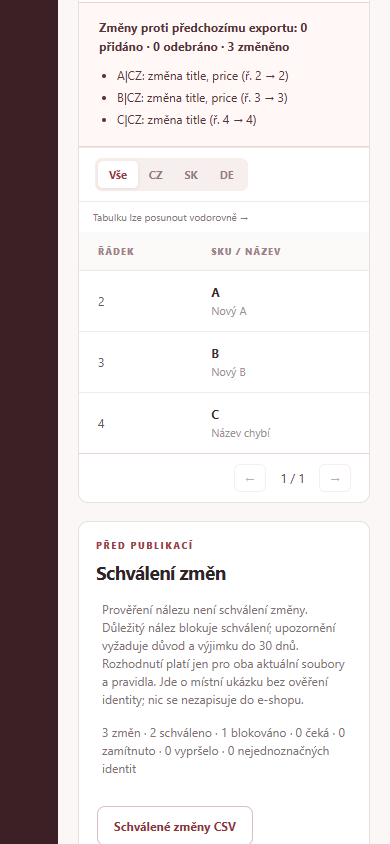
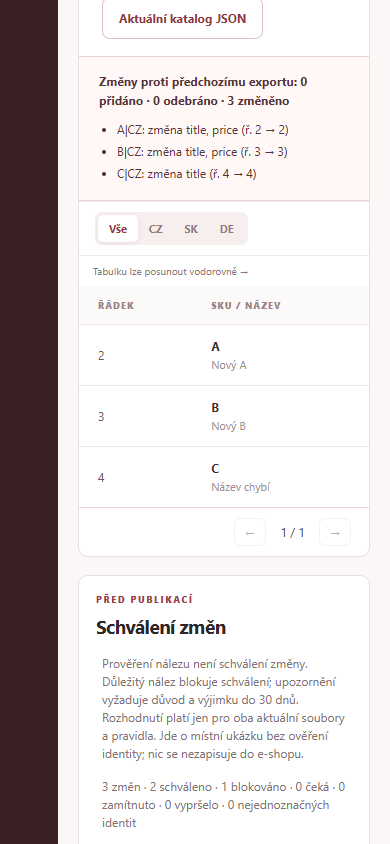
feat: versioned JSON catalogs and reviewed factual copy drafts

diff --git a/index.html b/index.html
@@ -6,14 +6,14 @@
   <meta name="description" content="Ukázková kontrola e-shopových dat a objednávek na fiktivních datech.">
   <meta name="theme-color" content="#3b2026">
   <title>Shop Ops Kit — kontrola e-shopových dat</title>
-  <link rel="stylesheet" href="/style.css">
-  <link rel="stylesheet" href="/red.css">
-  <script type="module" src="/app.mjs"></script>
+  <link rel="stylesheet" href="./style.css">
+  <link rel="stylesheet" href="./red.css">
+  <script type="module" src="./app.mjs"></script>
 </head>
 <body>
   <div class="shell">
     <aside class="rail">
-      <a class="brand" href="/" aria-label="Shop Ops Kit, úvod"><span class="brand-mark">S<span>·</span>O</span><span>SHOP OPS<br><strong>KIT</strong></span></a>
+      <a class="brand" href="./" aria-label="Shop Ops Kit, úvod"><span class="brand-mark">S<span>·</span>O</span><span>SHOP OPS<br><strong>KIT</strong></span></a>
       <div class="rail-caption">PRACOVNÍ PROSTOR</div>
       <nav aria-label="Nástroje">
         <button class="nav-item selected" data-view="catalog" aria-current="page"><span class="nav-icon">▦</span><span>Katalog a trhy</span></button>
@@ -34,8 +34,8 @@
         <section class="content-grid">
           <div class="main-column">
             <section class="panel" id="catalog-panel">
-              <div class="panel-head"><div><p class="panel-kicker">VSTUPNÍ DATA</p><h2>Produktový export</h2></div><div class="catalog-actions"><button id="previous-button" class="button outline upload-button" type="button">Předchozí CSV</button><input id="previous-file" type="file" accept=".csv,text/csv" hidden><button id="catalog-button" class="button outline upload-button" type="button">Aktuální CSV</button><input id="catalog-file" type="file" accept=".csv,text/csv" hidden></div></div>
-              <div id="catalog-diff" class="catalog-diff" role="status" aria-live="polite"></div>
+              <div class="panel-head"><div><p class="panel-kicker">VSTUPNÍ DATA</p><h2>Produktový export</h2></div><div class="catalog-actions"><button id="previous-button" class="button outline upload-button" type="button">Předchozí CSV / JSON</button><input id="previous-file" type="file" accept=".csv,.json,text/csv,application/json" hidden><button id="catalog-button" class="button outline upload-button" type="button">Aktuální CSV / JSON</button><input id="catalog-file" type="file" accept=".csv,.json,text/csv,application/json" hidden></div></div>
+              <p class="panel-description">JSON: verze 1, pole products se sedmi textovými poli katalogu. Zdroj je označen cestou products[index]. Stejná pravidla a schvalování jako CSV. <button id="catalog-json" class="button outline">Aktuální katalog JSON</button></p><div id="catalog-diff" class="catalog-diff" role="status" aria-live="polite"></div>
               <div class="filterbar"><div class="segmented" aria-label="Filtr trhů"><button type="button" class="active" data-market="ALL">Vše</button><button type="button" data-market="CZ">CZ</button><button type="button" data-market="SK">SK</button><button type="button" data-market="DE">DE</button></div><span id="catalog-count" class="count-label"></span></div>
               <div class="table-wrap"><table><thead><tr><th>ŘÁDEK</th><th>SKU / NÁZEV</th><th>TRH</th><th>CENA</th><th>SKLAD</th></tr></thead><tbody id="catalog-table"></tbody></table></div><div class="catalog-pager"><button id="catalog-prev" type="button" aria-label="Předchozí stránka katalogu">←</button><span id="catalog-page"></span><button id="catalog-next" type="button" aria-label="Další stránka katalogu">→</button></div>
             </section>
@@ -47,7 +47,7 @@
               <div id="publication-list"></div>
               <div class="catalog-pager"><button id="publication-prev" aria-label="Předchozí změny">←</button><span id="publication-page"></span><button id="publication-next" aria-label="Další změny">→</button></div>
             </section>
-            <section class="panel hidden" id="orders-panel">
+            <section class="panel draft-panel" id="draft-panel"></section><section class="panel hidden" id="orders-panel">
               <div class="panel-head"><div><p class="panel-kicker">POROVNÁNÍ SYSTÉMŮ</p><h2>Objednávky × zásilky</h2></div><span class="tag">DEMO REPLAY</span></div>
               <p class="panel-description">Každá událost zásilky se započítá jen jednou podle ID. Chybné mapování a rozdíly v množství zůstanou viditelné ke kontrole.</p>
               <div class="table-wrap"><table><thead><tr><th>OBJEDNÁVKA</th><th>STAV</th><th>PRODUKT</th><th>OBJEDNÁNO</th><th>ODESLÁNO*</th></tr></thead><tbody id="orders-table"></tbody></table></div>

diff --git a/red.css b/red.css
@@ -84,3 +84,5 @@ footer { border-color: #eadfdf; color: #a78f92; }
 .publication-change>label input{padding:7px;border:1px solid #d9c9c9;border-radius:4px;font:inherit}
 .publication-actions{padding:12px 0 0}.publication-toolbar .button{white-space:normal}
 .publication-actions button:disabled{opacity:.45;cursor:not-allowed}
+
+.draft-panel{padding:22px}.draft-panel select,.draft-panel input{font:inherit;max-width:100%;padding:9px;border:1px solid #c8bbc0;border-radius:4px;margin:7px}.draft-panel pre{white-space:pre-wrap;overflow-wrap:anywhere;background:#f8f5f5;padding:14px}.draft-panel label{display:block;margin:12px 0}.draft-panel button{margin:7px}.draft-panel h2{margin-bottom:12px}#draft-list p{padding:10px;border-left:3px solid #a63946}#draft-status{color:#773844}

diff --git a/docs/PROJECT.md b/docs/PROJECT.md
@@ -1,3 +1,15 @@
+# Etapa 10. 11. 2026 – SO-4/5
+
+**CSV i verzovaný JSON katalog; kontrolované návrhy textů.** Oba vstupy procházejí stejnými obchodními pravidly a schvalovací bránou. JSON má format shop-ops-catalog, version 1 a products s právě sedmi textovými poli: sku, market, title, price, currency, stock, url. Cenu a sklad uchovává jako text pro audit; neplatná hodnota se nepřevede na platnou. Do 2 MB / 10 000 položek. JSON zdroj se ukazuje cestou products[index]. Tlačítko „Aktuální katalog JSON“ stáhne aktuální normalizovaný katalog jako vzor; schválení nepřenáší.
+
+V panelu návrhů vyberte jednoznačné SKU/trh a krátkou nebo úplnou šablonu. Text pouze přebírá název, SKU, cenu/měnu a sklad; neprovádí překlad, nevymýšlí účinky ani specifikace a nevolá AI. Důležitý nález blokuje přípravu. Návrh ukáže zdrojová fakta a lokaci; k exportu vyžaduje potvrzení a důvod kontroly. SHA-256 propojuje text s fakty a variantou; změna katalogu, pravidel nebo reset návrhy zruší. Export JSON obsahuje pouze platné prověřené návrhy, nikoli publikaci do e-shopu. Název produktu může již ve vstupu obsahovat tvrzení; samotná šablona jeho pravdivost nezávisle neověřuje.
+
+20 Node testů prošlo. Dvě browser sady ověřily CSV schvalování i skutečný JSON import, lokaci, návrh, povinnou kontrolu, export, zneplatnění a zachování posledního platného katalogu po vadném importu. Desktop 1440 px a mobil 390 px bez přetečení/JS chyb; viz drafts.png a drafts-mobile.png. pnpm qa spustí obě sady; bez externích API. CI této nové etapy se ověřuje po publikaci.
+
+English: versioned JSON catalogs join CSV through the same audit/approval rules. JSON uses seven original string fields, bounded input and products[index] provenance. Source-only product copy templates (no AI, translation or invented claims) require human review and a reason, remain fingerprint-bound to the original facts, and export only reviewed current drafts. No live shop writes, authenticated approvals or imported orders. This is a local fictional-data portfolio workflow.
+
+## Historické etapy (aktuální stav výše)
+
 # Druhá etapa 9. 11. 2026 – SO-2a a SO-3a/b/c/d
 
 16 Node testů prošlo. Nové případy: důvod rozhodnutí, důležitý nález a nejednoznačné identity, výjimka/expirace/nejvýše 30 dnů UTC, otisk obou vstupů i pravidel, CSV jen schválených změn s ochranou textových buněk, zamítnutí, oddělení starých a nových řádků a přísné číselné vstupy. Prázdný sklad už neprochází jako nula.

diff --git a/docs/QA.md b/docs/QA.md
@@ -1,3 +1,15 @@
+# Etapa 10. 11. 2026 – SO-4/5
+
+**CSV i verzovaný JSON katalog; kontrolované návrhy textů.** Oba vstupy procházejí stejnými obchodními pravidly a schvalovací bránou. JSON má format shop-ops-catalog, version 1 a products s právě sedmi textovými poli: sku, market, title, price, currency, stock, url. Cenu a sklad uchovává jako text pro audit; neplatná hodnota se nepřevede na platnou. Do 2 MB / 10 000 položek. JSON zdroj se ukazuje cestou products[index]. Tlačítko „Aktuální katalog JSON“ stáhne aktuální normalizovaný katalog jako vzor; schválení nepřenáší.
+
+V panelu návrhů vyberte jednoznačné SKU/trh a krátkou nebo úplnou šablonu. Text pouze přebírá název, SKU, cenu/měnu a sklad; neprovádí překlad, nevymýšlí účinky ani specifikace a nevolá AI. Důležitý nález blokuje přípravu. Návrh ukáže zdrojová fakta a lokaci; k exportu vyžaduje potvrzení a důvod kontroly. SHA-256 propojuje text s fakty a variantou; změna katalogu, pravidel nebo reset návrhy zruší. Export JSON obsahuje pouze platné prověřené návrhy, nikoli publikaci do e-shopu. Název produktu může již ve vstupu obsahovat tvrzení; samotná šablona jeho pravdivost nezávisle neověřuje.
+
+20 Node testů prošlo. Dvě browser sady ověřily CSV schvalování i skutečný JSON import, lokaci, návrh, povinnou kontrolu, export, zneplatnění a zachování posledního platného katalogu po vadném importu. Desktop 1440 px a mobil 390 px bez přetečení/JS chyb; viz drafts.png a drafts-mobile.png. pnpm qa spustí obě sady; bez externích API. CI této nové etapy se ověřuje po publikaci.
+
+English: versioned JSON catalogs join CSV through the same audit/approval rules. JSON uses seven original string fields, bounded input and products[index] provenance. Source-only product copy templates (no AI, translation or invented claims) require human review and a reason, remain fingerprint-bound to the original facts, and export only reviewed current drafts. No live shop writes, authenticated approvals or imported orders. This is a local fictional-data portfolio workflow.
+
+## Historické etapy (aktuální stav výše)
+
 ## Ověřený vzdálený běh
 
 GitHub Actions úspěšně ověřily kód `fa77e1c`: [výsledek kontroly](https://github.com/OmegaCatt/shop-ops-kit/actions/runs/42686828209). Artefakt `shop-ops-workflow-preview` byl skutečně nahrán.

diff --git a/README.md b/README.md
@@ -1,3 +1,15 @@
+# Etapa 10. 11. 2026 – SO-4/5
+
+**CSV i verzovaný JSON katalog; kontrolované návrhy textů.** Oba vstupy procházejí stejnými obchodními pravidly a schvalovací bránou. JSON má format shop-ops-catalog, version 1 a products s právě sedmi textovými poli: sku, market, title, price, currency, stock, url. Cenu a sklad uchovává jako text pro audit; neplatná hodnota se nepřevede na platnou. Do 2 MB / 10 000 položek. JSON zdroj se ukazuje cestou products[index]. Tlačítko „Aktuální katalog JSON“ stáhne aktuální normalizovaný katalog jako vzor; schválení nepřenáší.
+
+V panelu návrhů vyberte jednoznačné SKU/trh a krátkou nebo úplnou šablonu. Text pouze přebírá název, SKU, cenu/měnu a sklad; neprovádí překlad, nevymýšlí účinky ani specifikace a nevolá AI. Důležitý nález blokuje přípravu. Návrh ukáže zdrojová fakta a lokaci; k exportu vyžaduje potvrzení a důvod kontroly. SHA-256 propojuje text s fakty a variantou; změna katalogu, pravidel nebo reset návrhy zruší. Export JSON obsahuje pouze platné prověřené návrhy, nikoli publikaci do e-shopu. Název produktu může již ve vstupu obsahovat tvrzení; samotná šablona jeho pravdivost nezávisle neověřuje.
+
+20 Node testů prošlo. Dvě browser sady ověřily CSV schvalování i skutečný JSON import, lokaci, návrh, povinnou kontrolu, export, zneplatnění a zachování posledního platného katalogu po vadném importu. Desktop 1440 px a mobil 390 px bez přetečení/JS chyb; viz drafts.png a drafts-mobile.png. pnpm qa spustí obě sady; bez externích API. CI této nové etapy se ověřuje po publikaci.
+
+English: versioned JSON catalogs join CSV through the same audit/approval rules. JSON uses seven original string fields, bounded input and products[index] provenance. Source-only product copy templates (no AI, translation or invented claims) require human review and a reason, remain fingerprint-bound to the original facts, and export only reviewed current drafts. No live shop writes, authenticated approvals or imported orders. This is a local fictional-data portfolio workflow.
+
+## Historické etapy (aktuální stav výše)
+
 # Shop Ops Kit
 
 ## Druhá etapa 9. 11. 2026: schválení konkrétních změn

diff --git a/AGENTS.md b/AGENTS.md
@@ -1,0 +1,9 @@
+# Shop Ops Kit
+
+Read the root portfolio plan and docs/PROJECT.md, docs/QA.md. Keep fictional examples, Czech-first docs, no credentials or live shop writes.
+
+CSV and versioned JSON normalize into the same catalog audit. Preserve original numeric strings and actual JSON path provenance. Both source exports and rules bind publication decisions; reviewing a finding is not approval. Do not bypass blockers.
+
+Drafts are deterministic fact-only templates, not AI. Require unique identity, valid source, explicit review and reason. New source/rules/reset invalidate drafts. Export only fingerprint-matching current reviewed drafts. Do not claim medical verification or automatic translation.
+
+Run node --test, pnpm check and both browser QA scripts for affected changes. Never turn historical documentation into current claims.
